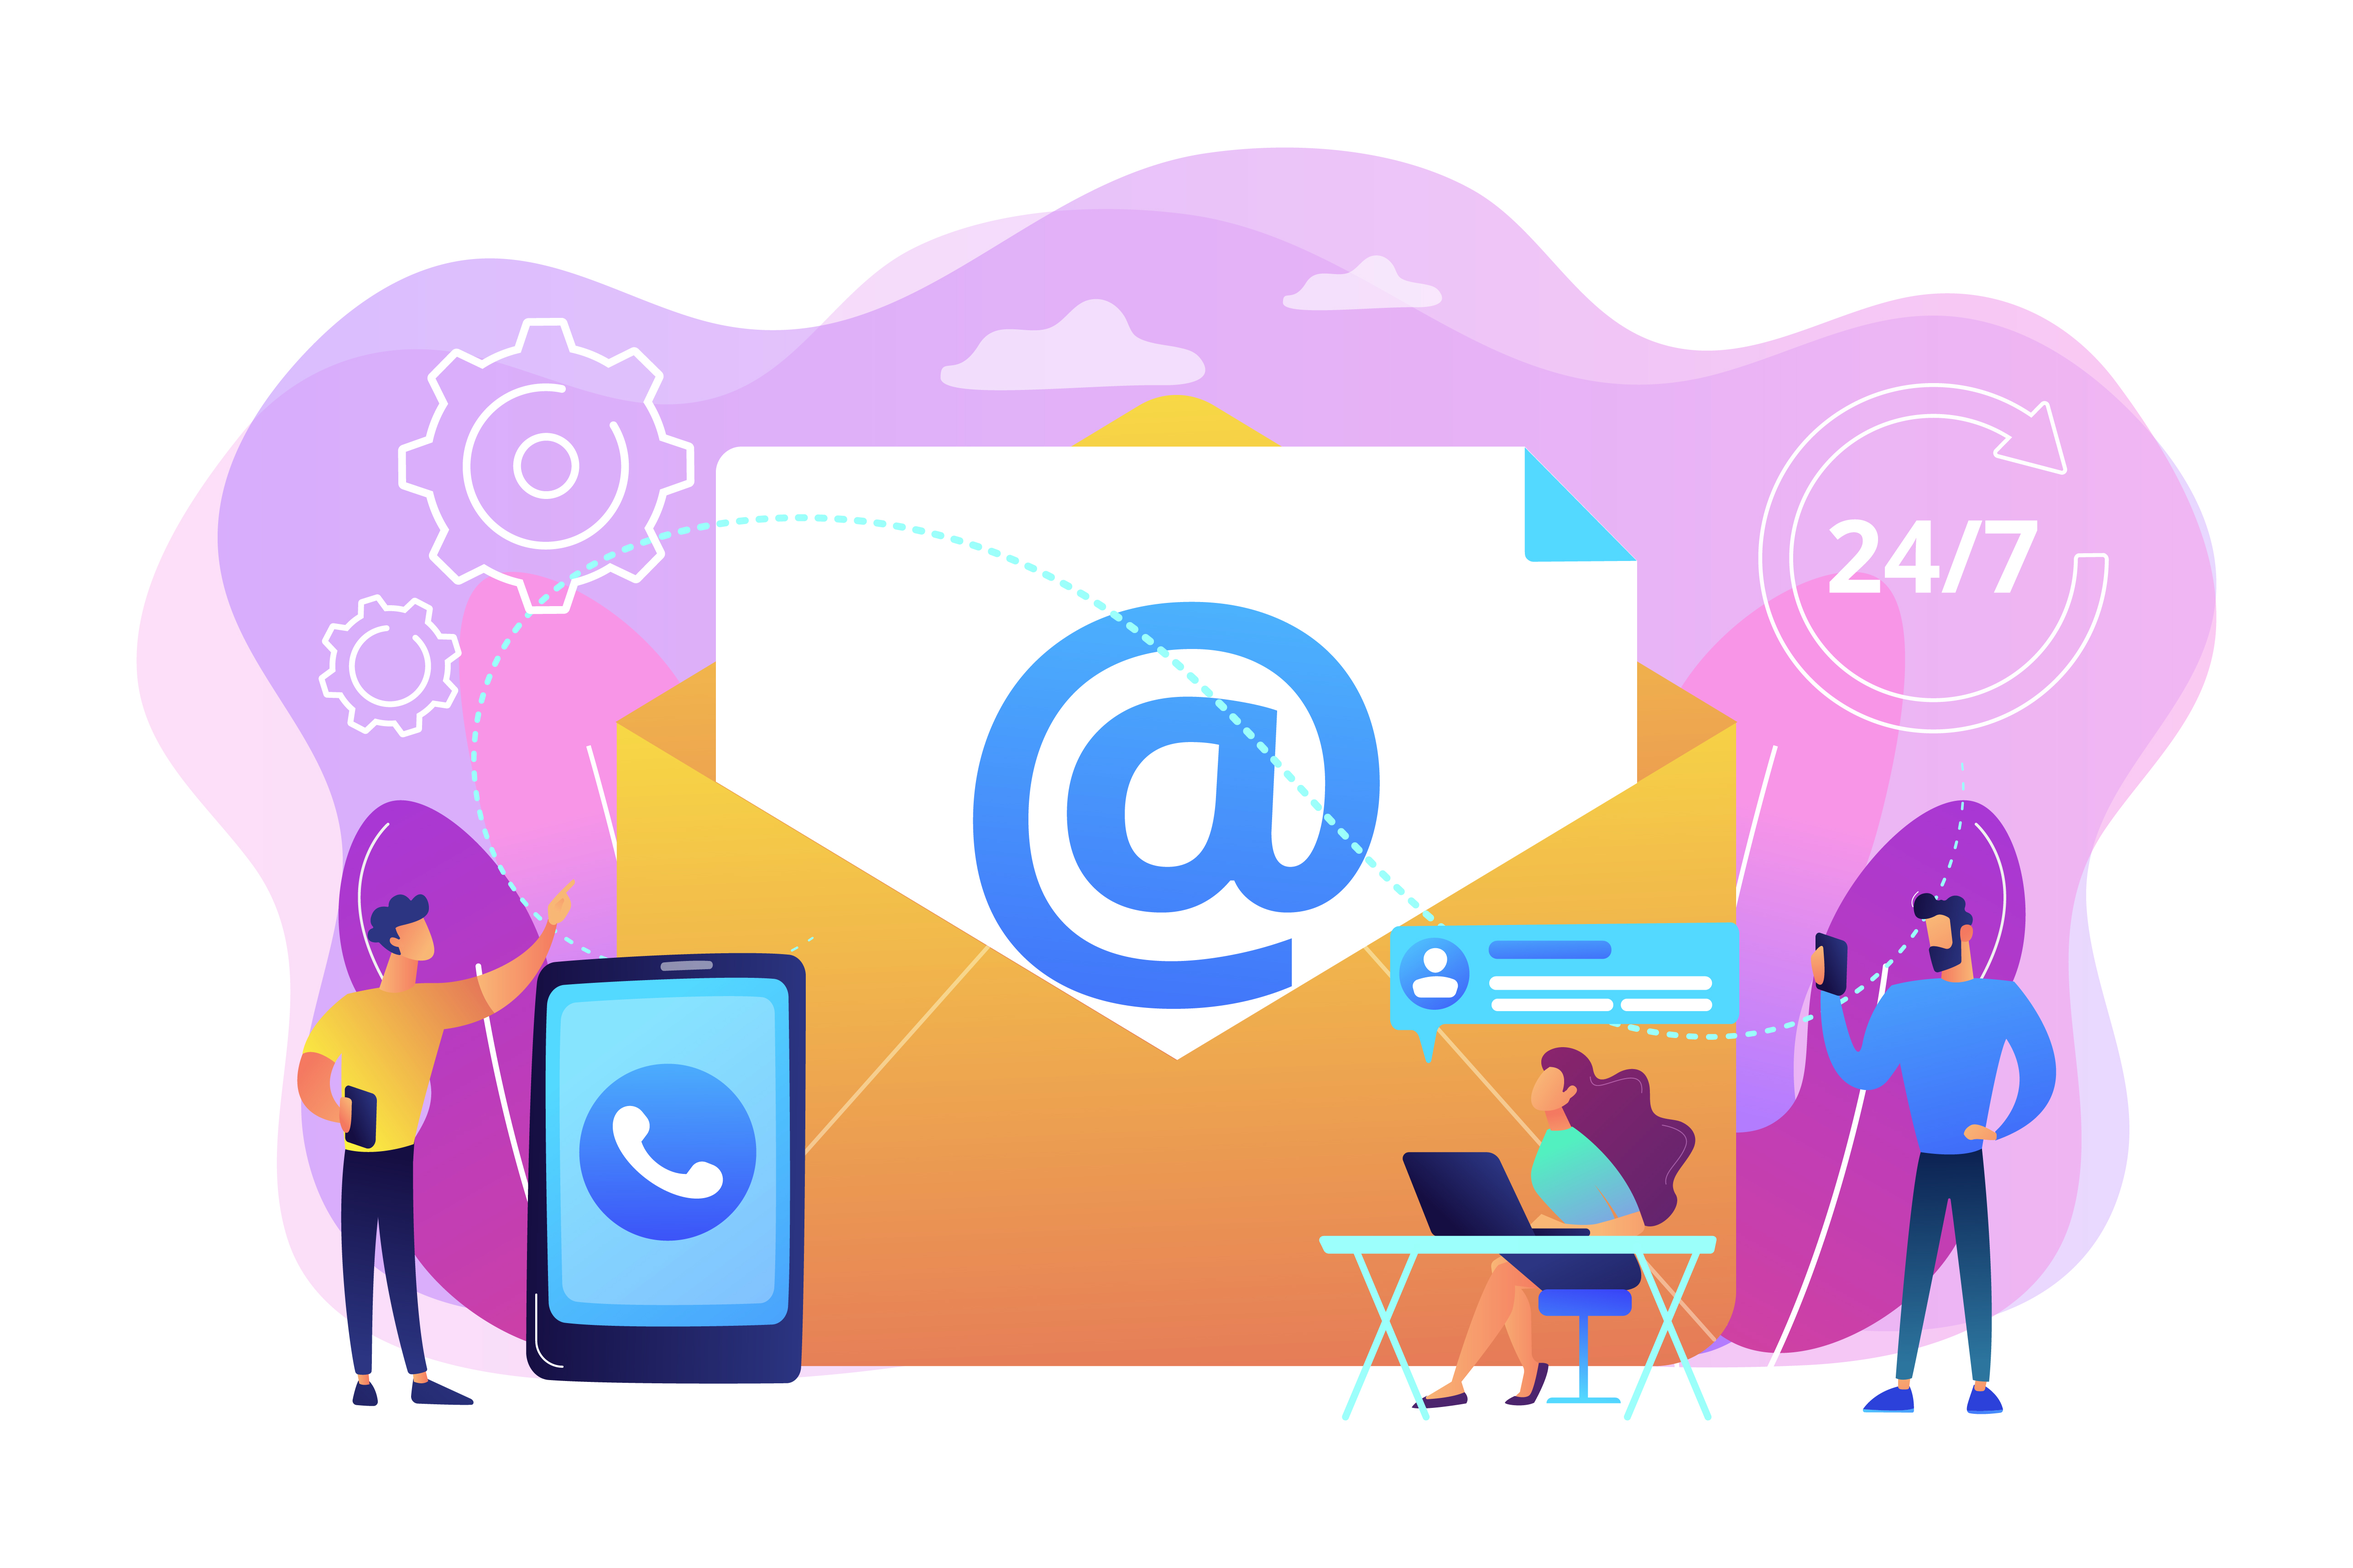
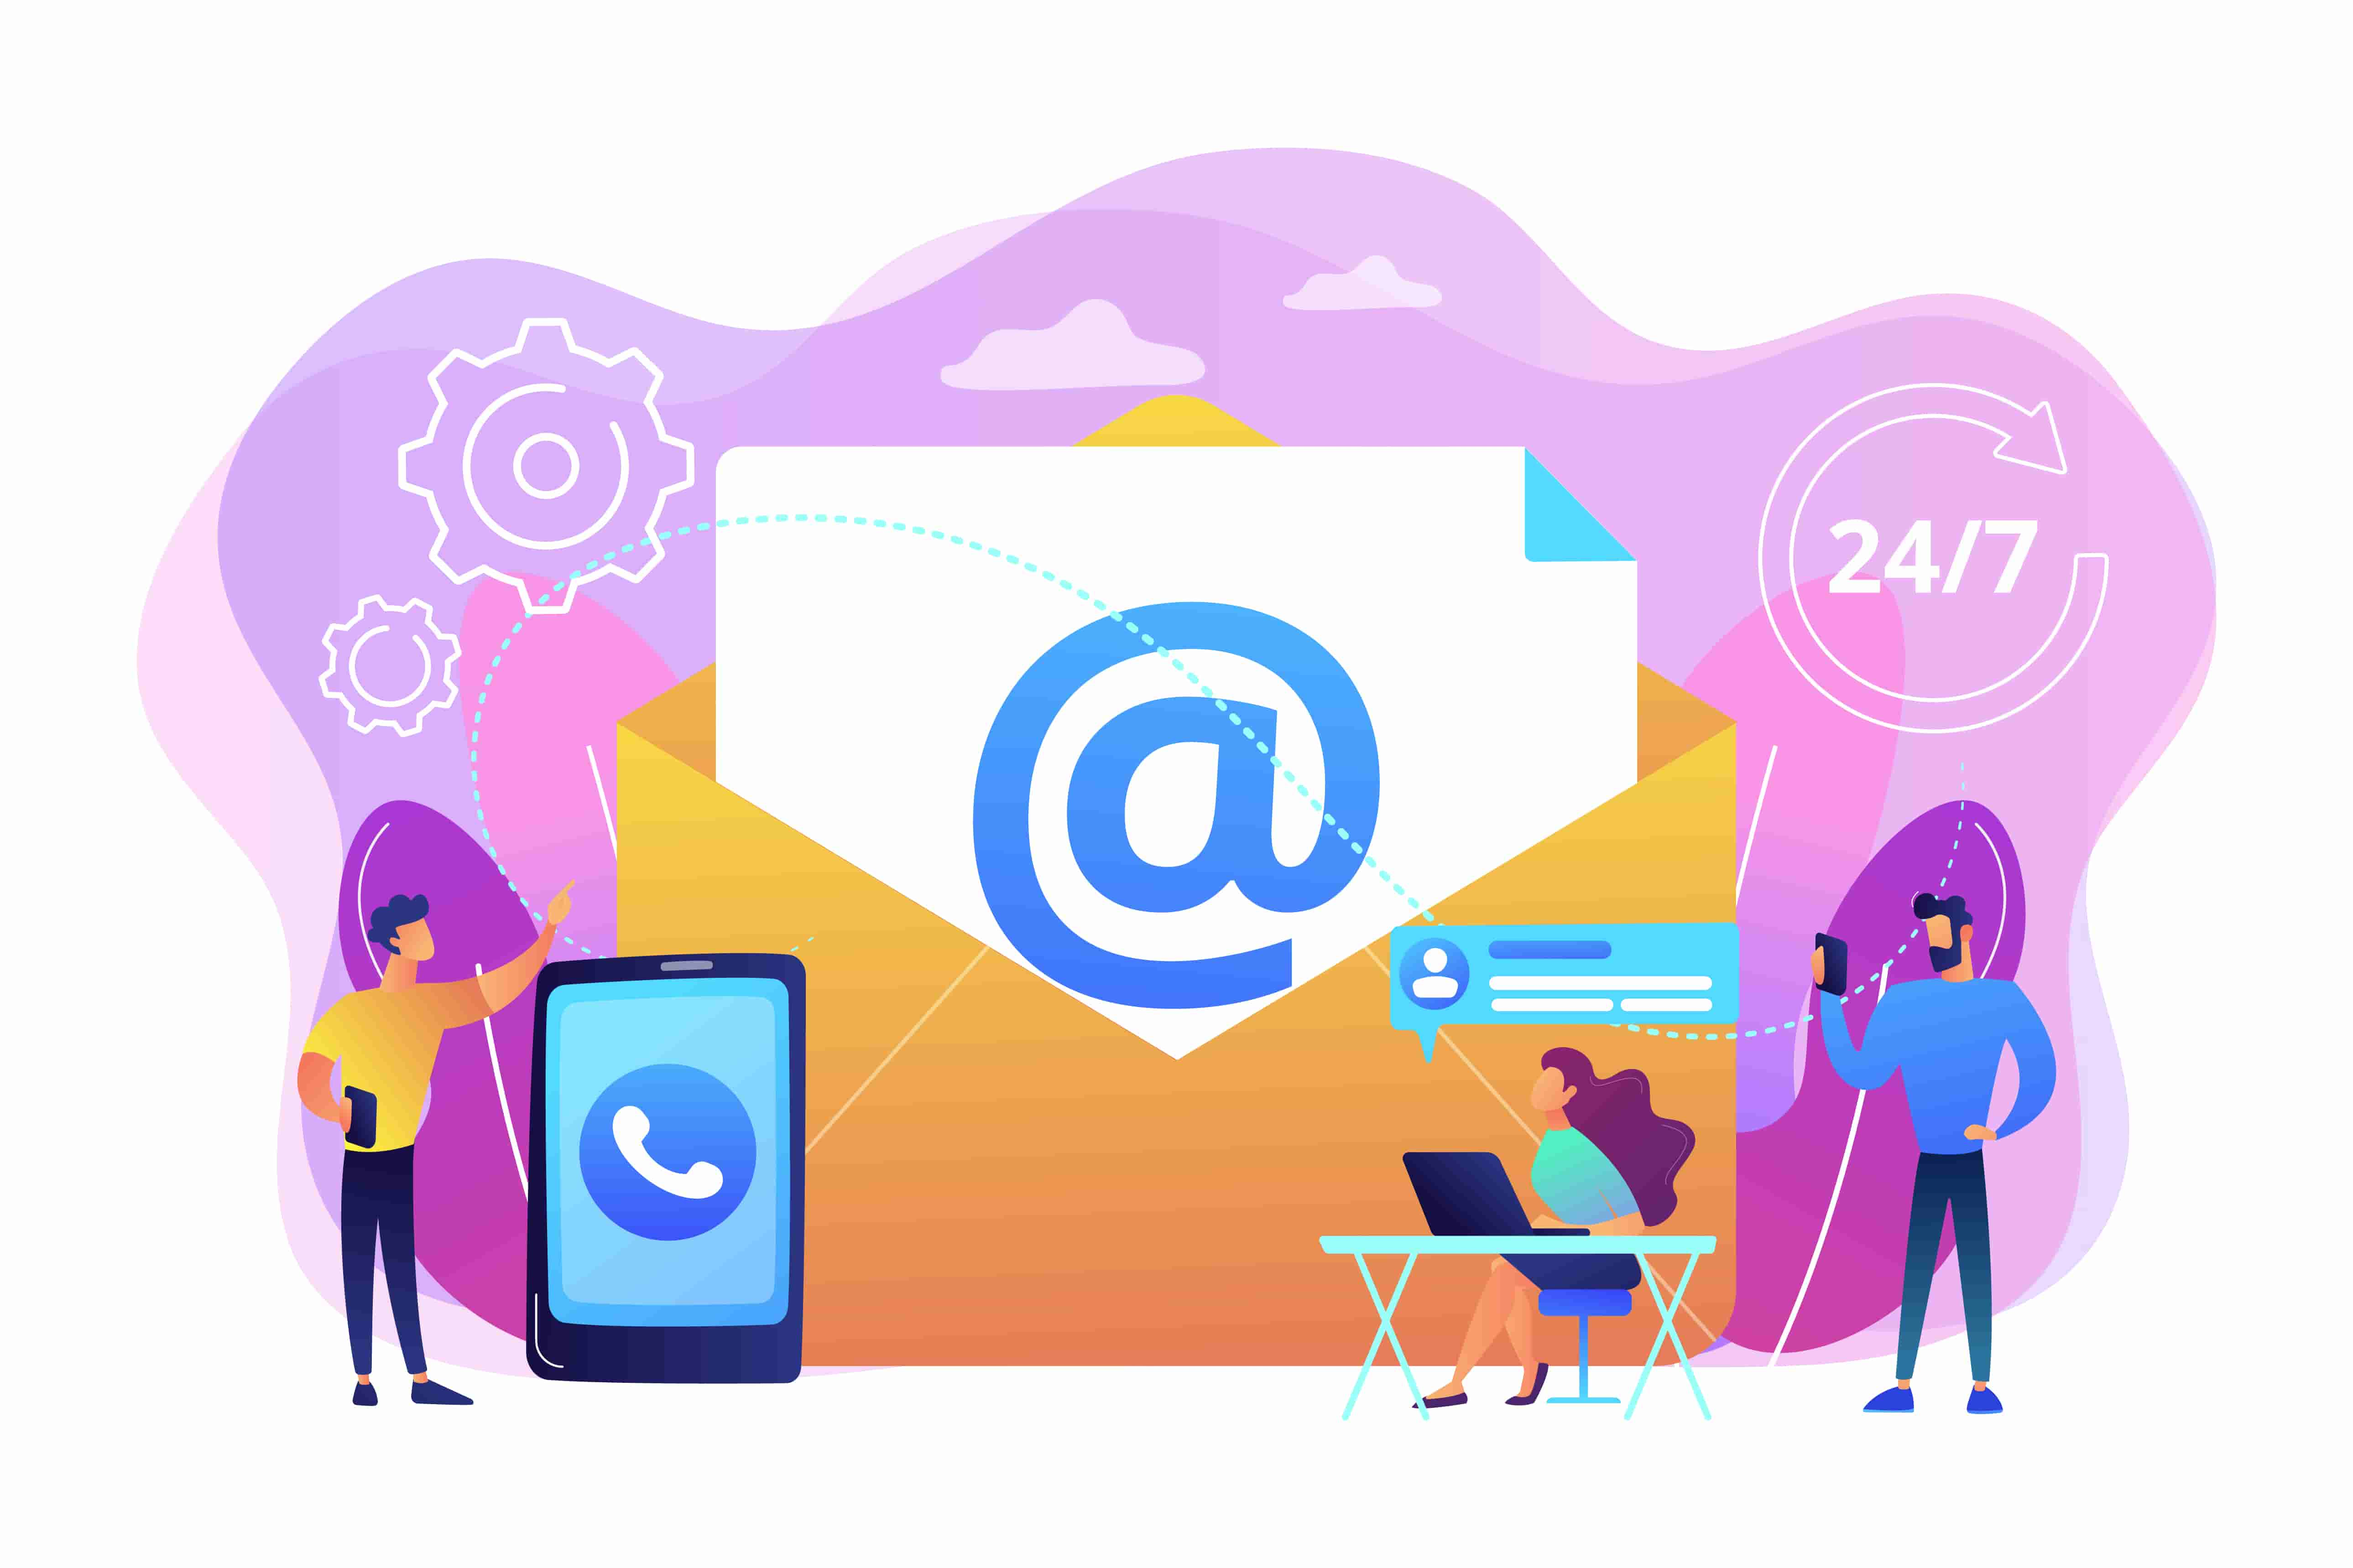
commit

diff --git a/src/components/Form.js b/src/components/Form.js
@@ -1,7 +1,7 @@
 import React,{useState,useEffect} from 'react'
 import styled from 'styled-components';
 import { motion } from 'framer-motion';
-import contact from '../Images/contact-page.svg';
+import contact from '../Images/contact-page.jpg';
 import { pageAnimation } from '../Animation';
 
 
@@ -333,7 +333,7 @@ const Flex = styled.div`
 const Image = styled.div`
 	img {
 		width: 100%;
-		min-height: 90vh;
+		min-height: 80vh;
         @media (max-width: 1150px){
 			width: 100%;
 			min-height: 48vh;

diff --git a/src/components/InitialPage.js b/src/components/InitialPage.js
@@ -120,6 +120,7 @@ const Buttons = styled(motion.div)`
             font-size: 1rem;
             padding: 0.4rem 1.2rem;
             margin-left: 2.5rem;
+            font-weight: lighter;
         }
      }
 `;
